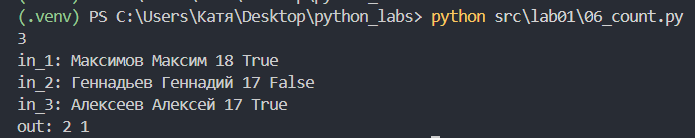
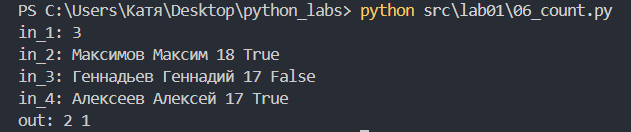
commit

diff --git a/src/lab01/06_count.py b/src/lab01/06_count.py
@@ -1,8 +1,8 @@
-kol = int(input())
+kol = int(input("in_1: "))
 
 kol1 = kol2 = 0
 for person in range(kol):
-    opisanie = list(map(str, input(f"in_{person+1}: ").split()))
+    opisanie = list(map(str, input(f"in_{person+2}: ").split()))
     if opisanie[3] == 'True':
         kol1 += 1
     elif opisanie[3] == 'False':

diff --git a/src/lab01/README.md b/src/lab01/README.md
@@ -80,11 +80,11 @@ print(f"Длина (символов): {kol + len(init) - 1}")
 ### Задание 6*
 Нахождение количества участников
 ```py
-kol = int(input())
+kol = int(input("in_1: "))
 
 kol1 = kol2 = 0
 for person in range(kol):
-    opisanie = list(map(str, input(f"in_{person+1}: ").split()))
+    opisanie = list(map(str, input(f"in_{person+2}: ").split()))
     if opisanie[3] == 'True':
         kol1 += 1
     elif opisanie[3] == 'False':
